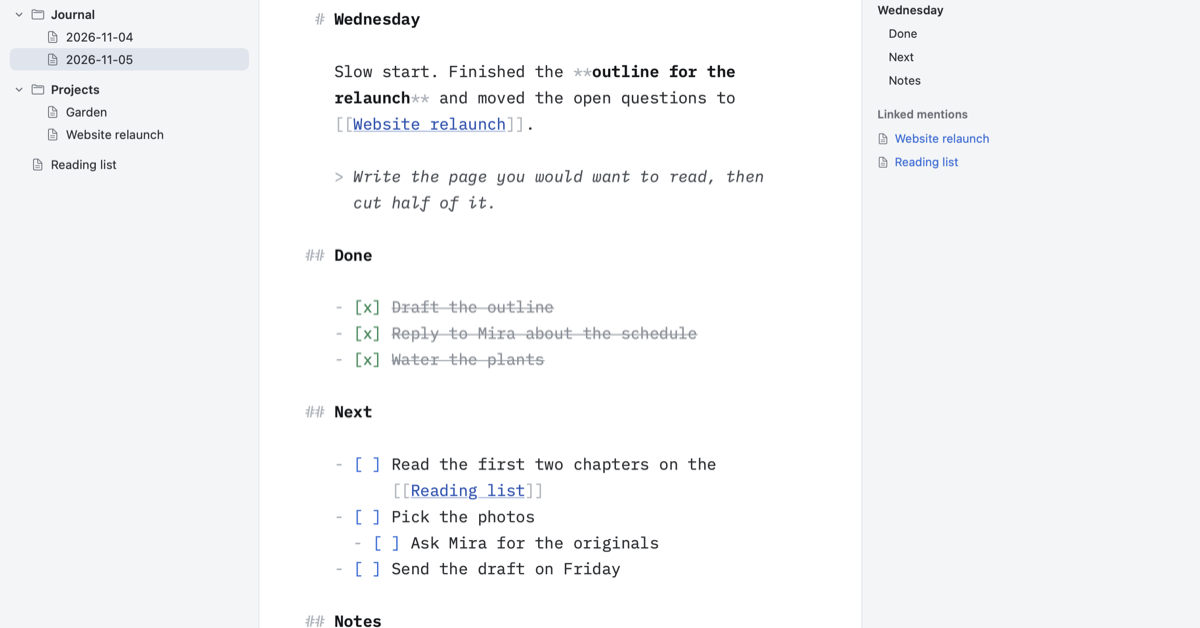
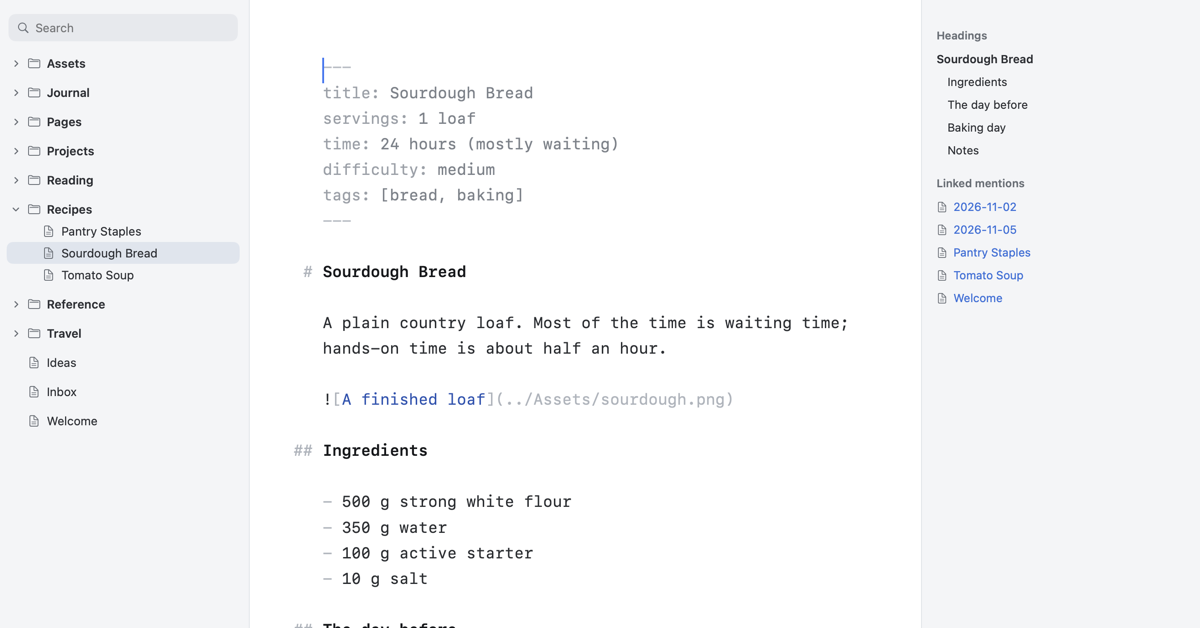
Website: deploy to GitHub Pages at mdedit.satran.in, say it is open source
Adds the Pages workflow and CNAME, an "Is MDEdit open source?" answer, MIT
mentions in the footer, structured data and llms.txt, and a share image cut
from the new screenshot.

diff --git a/website/index.html b/website/index.html
@@ -5,7 +5,7 @@
 <meta name="viewport" content="width=device-width, initial-scale=1">
 <title>MDEdit: a Markdown editor for Mac that works on plain folders</title>
 <meta name="description" content="MDEdit is a native Mac Markdown editor. Open a folder of .md files, link notes with [[wiki links]], search the whole folder, and keep every note as plain text.">
-<link rel="canonical" href="https://mdedit.ranjeev.in/">
+<link rel="canonical" href="https://mdedit.satran.in/">
 <meta name="theme-color" content="#ffffff" media="(prefers-color-scheme: light)">
 <meta name="theme-color" content="#111113" media="(prefers-color-scheme: dark)">
 <link rel="icon" href="/favicon.ico" sizes="32x32">
@@ -15,16 +15,16 @@
 <meta property="og:site_name" content="MDEdit">
 <meta property="og:title" content="MDEdit: a Markdown editor for Mac that works on plain folders">
 <meta property="og:description" content="MDEdit is a native Mac Markdown editor. Open a folder of .md files, link notes with [[wiki links]], search the whole folder, and keep every note as plain text.">
-<meta property="og:url" content="https://mdedit.ranjeev.in/">
-<meta property="og:image" content="https://mdedit.ranjeev.in/img/og.png">
+<meta property="og:url" content="https://mdedit.satran.in/">
+<meta property="og:image" content="https://mdedit.satran.in/img/og.png">
 <meta property="og:image:width" content="1200">
 <meta property="og:image:height" content="628">
 <meta property="og:image:alt" content="MDEdit showing a folder of notes, a note being written and its outline">
 <meta name="twitter:card" content="summary_large_image">
 <link rel="preload" as="image" href="/img/mdedit-light.png" media="(prefers-color-scheme: light)" fetchpriority="high">
 <link rel="preload" as="image" href="/img/mdedit-dark.png" media="(prefers-color-scheme: dark)" fetchpriority="high">
-<script type="application/ld+json">{"@context": "https://schema.org", "@type": "SoftwareApplication", "name": "MDEdit", "description": "MDEdit is a native Mac Markdown editor. Open a folder of .md files, link notes with [[wiki links]], search the whole folder, and keep every note as plain text.", "applicationCategory": "ProductivityApplication", "operatingSystem": "macOS 14 or later", "url": "https://mdedit.ranjeev.in/", "downloadUrl": "https://github.com/satran/mdedit/releases/latest/download/MDEdit.dmg", "image": "https://mdedit.ranjeev.in/img/og.png", "author": {"@type": "Person", "name": "Satyajit Ranjeev"}}</script>
-<script type="application/ld+json">{"@context": "https://schema.org", "@type": "FAQPage", "mainEntity": [{"@type": "Question", "name": "What is MDEdit?", "acceptedAnswer": {"@type": "Answer", "text": "MDEdit is a Markdown editor for the Mac. It opens a folder as a project and edits the .md and .txt files in it directly, with wiki links, backlinks, find and replace across the folder, and a typeset reading view."}}, {"@type": "Question", "name": "Where are my notes stored?", "acceptedAnswer": {"@type": "Answer", "text": "Where they already are. MDEdit works on the files in the folder you open. It doesn't keep a copy, a database or a library of its own."}}, {"@type": "Question", "name": "Does MDEdit need an account or an internet connection?", "acceptedAnswer": {"@type": "Answer", "text": "No to both. It makes no network connections of its own. Pictures and stylesheets from the web load in a note only if you switch that on in Settings."}}, {"@type": "Question", "name": "Which version of macOS does it need?", "acceptedAnswer": {"@type": "Answer", "text": "macOS 14 (Sonoma) or later. There is no Windows, iPhone or iPad version."}}, {"@type": "Question", "name": "Does it support wiki links and backlinks?", "acceptedAnswer": {"@type": "Answer", "text": "Yes. [[Note]], [[Note|alias]], [[Note#Heading]] and [[folder/Note]] all work, with a list of notes as you type. The side panel shows the notes that link back to the one you have open."}}, {"@type": "Question", "name": "Can I open a folder from another notes app?", "acceptedAnswer": {"@type": "Answer", "text": "If its notes are Markdown or text files, yes. MDEdit reads and saves them where they are, so the folder still works in whatever else you use on it."}}, {"@type": "Question", "name": "Can an AI agent edit my notes?", "acceptedAnswer": {"@type": "Answer", "text": "Only if you let one. The local agent server is off until you turn it on in Settings. An agent can then read the note you have open and suggest changes, which appear in a Review tab as a diff. Nothing changes until you accept it."}}, {"@type": "Question", "name": "How do I install it?", "acceptedAnswer": {"@type": "Answer", "text": "Download the disk image, open it and drag MDEdit into Applications. The first time you open it, macOS may ask you to confirm: right-click the app and choose Open."}}]}</script>
+<script type="application/ld+json">{"@context": "https://schema.org", "@type": "SoftwareApplication", "name": "MDEdit", "description": "MDEdit is a native Mac Markdown editor. Open a folder of .md files, link notes with [[wiki links]], search the whole folder, and keep every note as plain text.", "applicationCategory": "ProductivityApplication", "operatingSystem": "macOS 14 or later", "url": "https://mdedit.satran.in/", "downloadUrl": "https://github.com/satran/mdedit/releases/latest/download/MDEdit.dmg", "image": "https://mdedit.satran.in/img/og.png", "author": {"@type": "Person", "name": "Satyajit Ranjeev"}, "license": "https://opensource.org/licenses/MIT", "isAccessibleForFree": true, "codeRepository": "https://github.com/satran/mdedit", "offers": {"@type": "Offer", "price": "0", "priceCurrency": "USD"}}</script>
+<script type="application/ld+json">{"@context": "https://schema.org", "@type": "FAQPage", "mainEntity": [{"@type": "Question", "name": "What is MDEdit?", "acceptedAnswer": {"@type": "Answer", "text": "MDEdit is a Markdown editor for the Mac. It opens a folder as a project and edits the .md and .txt files in it directly, with wiki links, backlinks, find and replace across the folder, and a typeset reading view."}}, {"@type": "Question", "name": "Where are my notes stored?", "acceptedAnswer": {"@type": "Answer", "text": "Where they already are. MDEdit works on the files in the folder you open. It doesn't keep a copy, a database or a library of its own."}}, {"@type": "Question", "name": "Does MDEdit need an account or an internet connection?", "acceptedAnswer": {"@type": "Answer", "text": "No to both. It makes no network connections of its own. Pictures and stylesheets from the web load in a note only if you switch that on in Settings."}}, {"@type": "Question", "name": "Is MDEdit open source?", "acceptedAnswer": {"@type": "Answer", "text": "Yes. MDEdit is free and released under the MIT licence. The source, the issue tracker and every release are on GitHub at github.com/satran/mdedit."}}, {"@type": "Question", "name": "Which version of macOS does it need?", "acceptedAnswer": {"@type": "Answer", "text": "macOS 14 (Sonoma) or later. There is no Windows, iPhone or iPad version."}}, {"@type": "Question", "name": "Does it support wiki links and backlinks?", "acceptedAnswer": {"@type": "Answer", "text": "Yes. [[Note]], [[Note|alias]], [[Note#Heading]] and [[folder/Note]] all work, with a list of notes as you type. The side panel shows the notes that link back to the one you have open."}}, {"@type": "Question", "name": "Can I open a folder from another notes app?", "acceptedAnswer": {"@type": "Answer", "text": "If its notes are Markdown or text files, yes. MDEdit reads and saves them where they are, so the folder still works in whatever else you use on it."}}, {"@type": "Question", "name": "Can an AI agent edit my notes?", "acceptedAnswer": {"@type": "Answer", "text": "Only if you let one. The local agent server is off until you turn it on in Settings. An agent can then read the note you have open and suggest changes, which appear in a Review tab as a diff. Nothing changes until you accept it."}}, {"@type": "Question", "name": "How do I install it?", "acceptedAnswer": {"@type": "Answer", "text": "Download the disk image, open it and drag MDEdit into Applications. It is signed and notarised by Apple, so it opens like any other app."}}]}</script>
 <style>
 :root {
   --bg: #fff; --fg: #1d1d1f; --muted: #6e6e73; --accent: #2563eb; --accent-ink: #fff;
@@ -207,6 +207,10 @@ footer a { color: var(--muted); }
         <p>No to both. It makes no network connections of its own. Pictures and stylesheets from the web load in a note only if you switch that on in Settings.</p>
       </details>
       <details>
+        <summary>Is MDEdit open source?</summary>
+        <p>Yes. MDEdit is free and released under the MIT licence. The source, the issue tracker and every release are on <a href="https://github.com/satran/mdedit">GitHub</a>.</p>
+      </details>
+      <details>
         <summary>Which version of macOS does it need?</summary>
         <p>macOS 14 (Sonoma) or later. There is no Windows, iPhone or iPad version.</p>
       </details>
@@ -224,7 +228,7 @@ footer a { color: var(--muted); }
       </details>
       <details>
         <summary>How do I install it?</summary>
-        <p>Download the disk image, open it and drag MDEdit into Applications. The first time you open it, macOS may ask you to confirm: right-click the app and choose Open.</p>
+        <p>Download the disk image, open it and drag MDEdit into Applications. It is signed and notarised by Apple, so it opens like any other app.</p>
       </details>
   </section>
 
@@ -236,7 +240,8 @@ footer a { color: var(--muted); }
 </main>
 
 <footer>
-  <span><a href="https://github.com/satran/mdedit/releases/latest">Releases</a> &middot; <a href="https://github.com/satran/mdedit">GitHub</a></span>
+  <span>Open source under the <a href="https://github.com/satran/mdedit/blob/main/LICENSE">MIT licence</a></span>
+  <span><a href="https://github.com/satran/mdedit/releases/latest">Releases</a> &middot; <a href="https://github.com/satran/mdedit">Source on GitHub</a> &middot; <a href="https://github.com/satran/mdedit/issues">Report a problem</a></span>
 </footer>
 </body>
 </html>

diff --git a/website/README.md b/website/README.md
@@ -2,8 +2,9 @@
 
 One static page, no build step and no JavaScript. Open `index.html`, or serve the folder (`python3 -m http.server`) to see it with its images.
 
-*   **Publish:** upload this folder as it is (GitHub Pages from `/website`, Netlify, any static host). The site must be served from the root of its domain, because the page links to `/img/...` and `/favicon.ico`.
-*   **The domain:** `https://mdedit.ranjeev.in/` is written in `index.html` (canonical, `og:url`, `og:image`, the structured data), `sitemap.xml`, `robots.txt` and `llms.txt`. Change it in those five places if the site lives elsewhere.
-*   **The download button:** it points at `https://github.com/satran/mdedit/releases/latest/download/MDEdit.dmg`. `make release` writes that fixed name next to the versioned one (`build/MDEdit.dmg`); attach it to each GitHub release and the button always gets the newest build.
+*   **Publish:** GitHub Pages deploys this folder by itself when it changes on `main` (`.github/workflows/pages.yml`; the maintainer notes `README.md` and `SCREENSHOTS.md` are left out). One-time setup: Settings ▸ Pages ▸ Source "GitHub Actions", custom domain `mdedit.satran.in`, Enforce HTTPS, and a DNS `CNAME` record `mdedit` pointing to `satran.github.io` (DNS only, not proxied, if the DNS is on Cloudflare). `CNAME` in this folder holds the domain. The site must be served from the root of its domain, because the page links to `/img/...` and `/favicon.ico`; any other static host works too.
+*   **The domain:** `https://mdedit.satran.in/` is written in `index.html` (canonical, `og:url`, `og:image`, the structured data), `sitemap.xml`, `robots.txt` and `llms.txt`. Change it in those places, and in `CNAME`, if the site lives elsewhere.
+*   **The download button:** it points at `https://github.com/satran/mdedit/releases/latest/download/MDEdit.dmg`. `make release` writes that fixed name next to the versioned one (`build/MDEdit.dmg`); attach both to each GitHub release and the button always gets the newest build.
 *   **Screenshots:** `img/mdedit-light.png` and `img/mdedit-dark.png` are renders of the real window (2930 px wide, with the window shadow in the picture); `img/og.png` is the 1200 by 628 share image cut from the light one. Replace them when the look changes. The feature images are `feature-{templates-editor,templates-preview,agent-review,focus,fuzzy-find}-{light,dark}.png`; the shot list is in `SCREENSHOTS.md`.
+*   **Open source:** the footer, the FAQ answer "Is MDEdit open source?" and the `license` fields in the structured data say MIT. The install answer says the app is notarised: true only for a build made with `make release SIGN=... NOTARY=...`.
 *   **The text:** the questions at the bottom are also in the structured data at the top of `index.html`. Keep the two in step when you edit one.

diff --git a/website/SCREENSHOTS.md b/website/SCREENSHOTS.md
@@ -13,6 +13,6 @@ Taken from the sample folder `~/mdtest/Sample/Demo Notes` (its `Showcase Guide.m
 
 The `width` and `height` attributes in `index.html` match these sizes. If a retake has another size, change them on that `<img>`.
 
-`og.png` (1200 × 628) is still cut from the old hero shot. Recut it from `mdedit-light.png` when convenient.
+`og.png` (1200 × 628) is a crop of `mdedit-light.png` (window interior, no shadow).
 
 The PNGs are about 1 MB each (12 MB in all). Running them through `pngquant` or exporting as WebP would roughly halve that.
